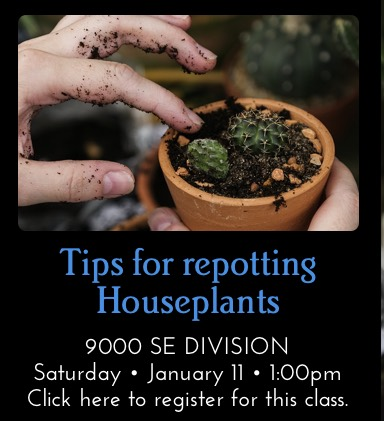
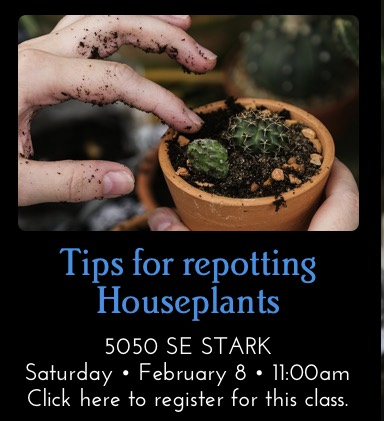
new tasks

Changed region(s): [[0.0625, 0.8029, 0.9062, 0.9264]]

diff --git a/partials/homepage/tasks.htm b/partials/homepage/tasks.htm
@@ -33,7 +33,7 @@
         <div class="col-md-4 col-sm-6">
 			 <div class="season-box">
                 <div class="season-thumb">
-                   <a href="https://www.eventbrite.com/e/fire-scaping-with-bonnie-bruce-tickets-84459954999" onclick="window.open(this.href,  null, 'height=483, =680, toolbar=0, location=0, status=1, scrollbars=1, resizable=1'); return false"><img src="{{ 'assets/images/classboxes/firescaping.jpg'|theme }}" alt="" /></a>
+                   <a href="https://www.eventbrite.com/e/90186384905" onclick="window.open(this.href,  null, 'height=483, =680, toolbar=0, location=0, status=1, scrollbars=1, resizable=1'); return false"><img src="{{ 'assets/images/classboxes/strawberries.jpg'|theme }}" alt="" /></a>
                 </div>
 
                  <a href="https://portlandnursery.com/resources/sales/">
@@ -52,7 +52,7 @@
             <div class="col-md-4 col-sm-6">
 			 <div class="season-box">
                 <div class="season-thumb">
-                   <a href="https://portlandnursery.wufoo.com/forms/z7lxlv70yia66e/" onclick="window.open(this.href,  null, 'height=483, =680, toolbar=0, location=0, status=1, scrollbars=1, resizable=1'); return false"><img src="{{ 'assets/images/classboxes/pineseasons.jpg'|theme }}" alt="" /></a>
+                   <a href="https://www.eventbrite.com/e/90352373381" onclick="window.open(this.href,  null, 'height=483, =680, toolbar=0, location=0, status=1, scrollbars=1, resizable=1'); return false"><img src="{{ 'assets/images/classboxes/repottinghouseplants.jpg'|theme }}" alt="" /></a>
                 </div>
 
                  <a href="https://portlandnursery.com/resources/sales/">
